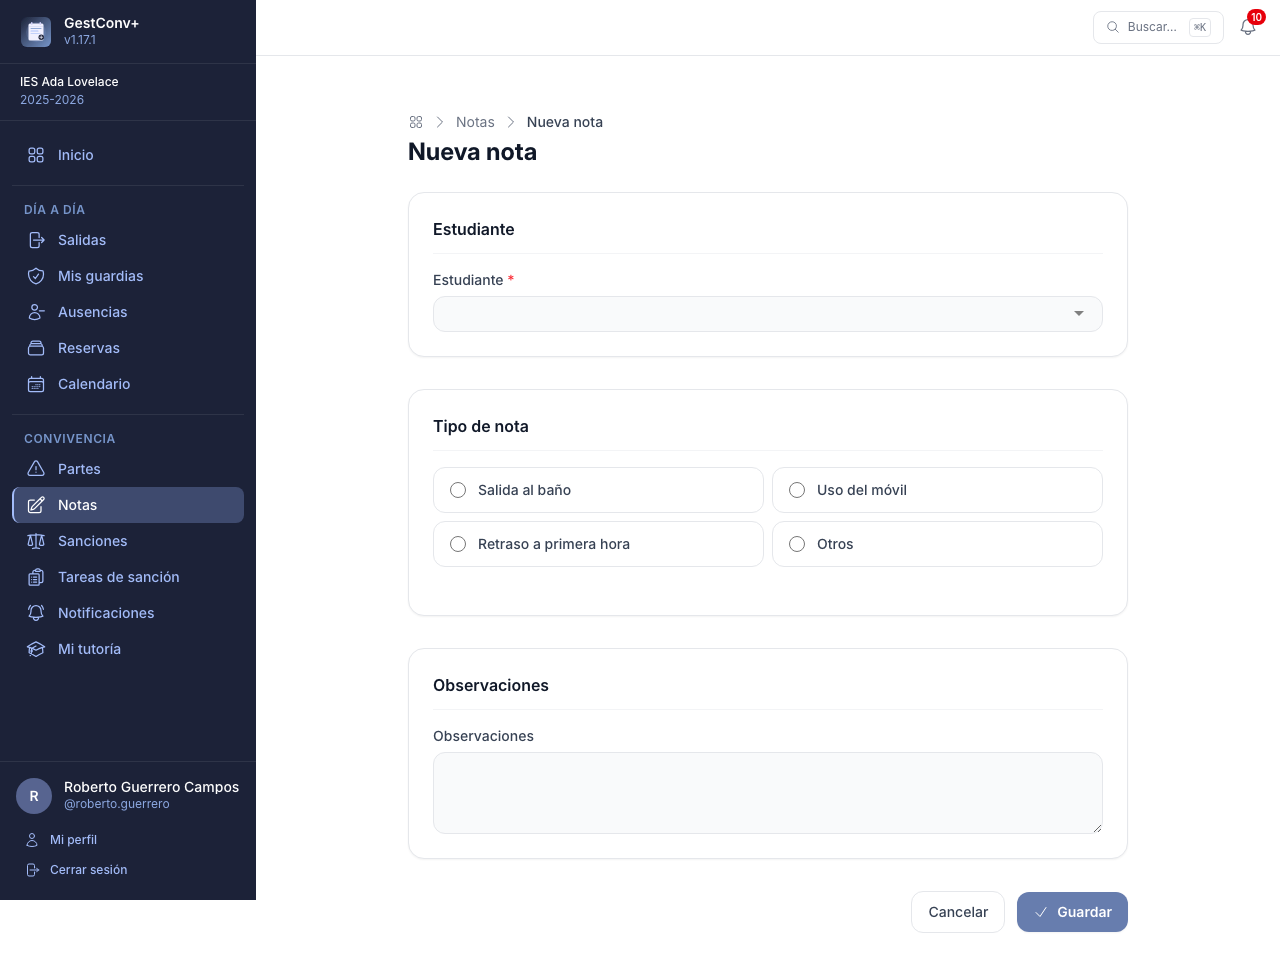
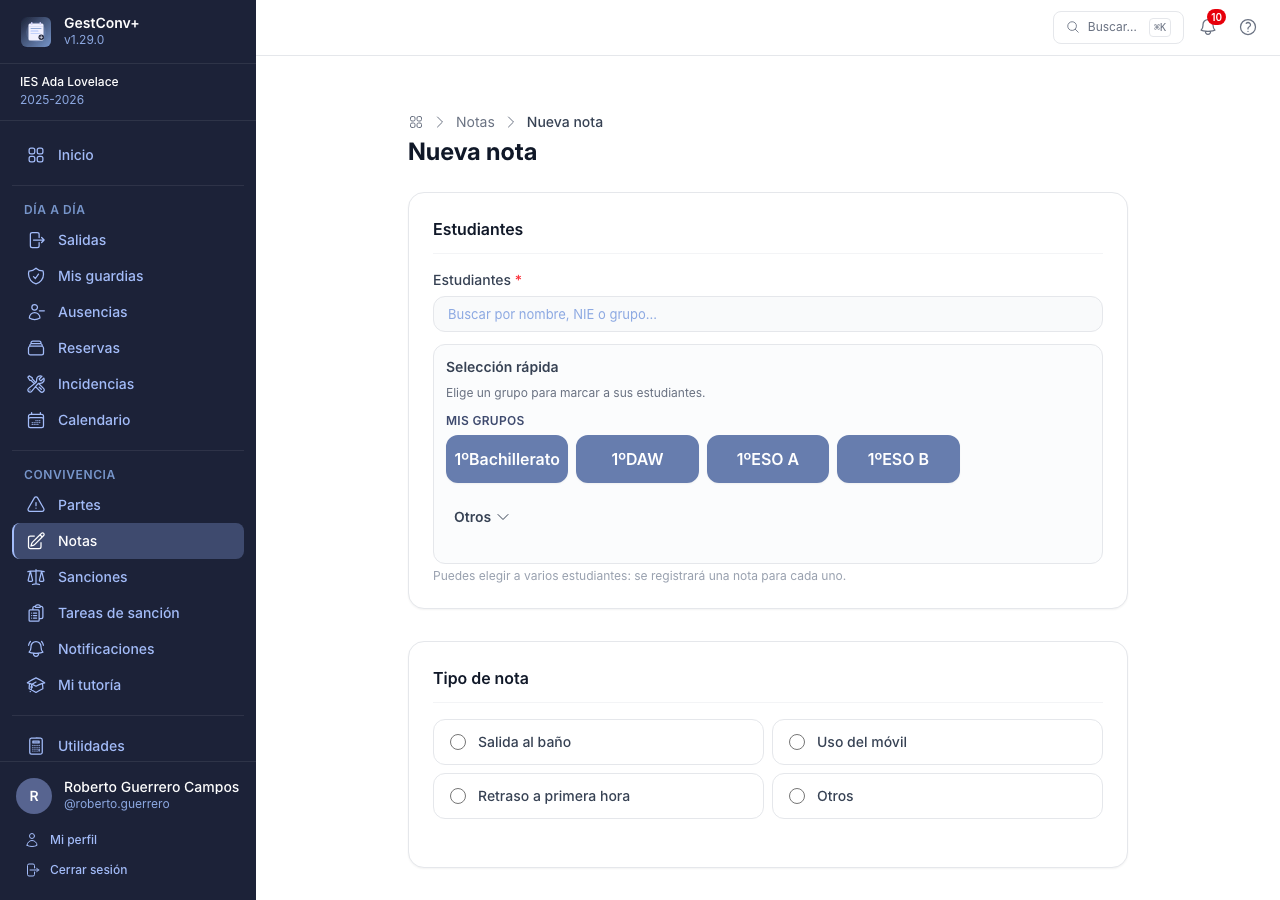
docs: capturas de las novedades y ajustes de interfaz tras verificarlas en navegador

diff --git a/assets/controllers/draft_controller.js b/assets/controllers/draft_controller.js
@@ -20,6 +20,7 @@ export default class extends Controller {
         ttlHours: { type: Number, default: 24 },
         studentsId: String,
         locationId: String,
+        justNow: String,
         // true si la página se muestra tras un envío con errores: el formulario ya trae lo enviado.
         posted: Boolean,
     };
@@ -183,7 +184,8 @@ export default class extends Controller {
 
     #ago(savedAt) {
         const minutes = Math.max(0, Math.round((Date.now() - savedAt) / 60000));
-        const rtf = new Intl.RelativeTimeFormat('es', { numeric: 'auto' });
+        if (minutes < 1) return this.justNowValue;
+        const rtf = new Intl.RelativeTimeFormat('es', { numeric: 'always' });
         if (minutes < 60) return rtf.format(-minutes, 'minute');
         return rtf.format(-Math.round(minutes / 60), 'hour');
     }

diff --git a/docs/manual/04-convivencia-profesorado.md b/docs/manual/04-convivencia-profesorado.md
@@ -29,7 +29,7 @@ especiales amplían esa visibilidad (ver [Permisos de un vistazo](15-permisos-de
    estudiantes (incluso de grupos distintos), selecciónalos todos: se creará un parte
    independiente para cada uno con los mismos datos.
 
-   ![Selector de alumnado con un estudiante seleccionado](img/partes/nuevo-parte-selector-alumnado.png)
+   ![Selección rápida: botones con los grupos de la persona que registra el parte, bajo el buscador](img/partes/nuevo-parte-seleccion-rapida.png)
 
    **Selección rápida.** Debajo del buscador aparecen botones con tus grupos (los que impartes o
    tutorizas), pensados para elegir con pocos toques incluso en la pantalla de un móvil. Pulsa un
@@ -43,6 +43,8 @@ especiales amplían esa visibilidad (ver [Permisos de un vistazo](15-permisos-de
    parte y de [nota](#registrar-una-nota-nueva)) permite
    desactivarla para toda la plataforma, para un centro o para ti (ver
    [Ajustes disponibles](13-administrar-la-plataforma.md#ajustes-disponibles)).
+
+   ![Dos estudiantes elegidos, con la tarjeta de antecedentes de cada una y la lista del grupo para marcar más](img/partes/nuevo-parte-selector-alumnado.png)
 
    **Antecedentes.** Al elegir a un estudiante, justo debajo aparece una tarjeta con un resumen de su
    situación: los **partes del último mes** (y cuántos incluyen conductas graves), si tiene una
@@ -75,6 +77,8 @@ especiales amplían esa visibilidad (ver [Permisos de un vistazo](15-permisos-de
 
 Los campos obligatorios están marcados con un asterisco; si falta alguno al guardar, cada error
 se muestra junto al campo afectado.
+
+![Aviso de borrador recuperable al abrir de nuevo el formulario de nuevo parte](img/partes/nuevo-parte-borrador.png)
 
 **Borrador automático.** Mientras rellenas el formulario, lo escrito se va guardando **en tu propio
 dispositivo** (no en el servidor), también al cambiar de aplicación o bloquear el móvil. Si se cierra la
@@ -160,6 +164,8 @@ una caducidad opcional (ver [Tipos de notas diarias](06-convivencia-administraci
    elegir a **varios estudiantes** (hasta 50): se registra **una nota independiente para cada uno**,
    con el mismo tipo y las mismas observaciones, y cada una cuenta por separado para su umbral. Es lo
    más cómodo para anotar, por ejemplo, los cinco retrasos de primera hora de una vez.
+
+   ![Formulario de nota con tres estudiantes elegidos con la selección rápida](img/notas/nueva-nota-varios.png)
 3. **Tipo de nota** — elige uno de los tipos activos del centro. Los tipos que, de añadir esta
    nota, alcanzarían el umbral de ocurrencias que dan lugar a parte se muestran resaltados en
    rojo (con varios estudiantes, si lo alcanzaría **cualquiera** de ellos). Al elegir un tipo
@@ -174,6 +180,8 @@ una caducidad opcional (ver [Tipos de notas diarias](06-convivencia-administraci
    umbral configurado, cuántas ocurrencias lleva el estudiante sobre el total; con varios
    estudiantes, una tarjeta por cada uno (el contador se resalta en rojo si ya ha alcanzado el
    umbral). La edición de una nota existente sigue siendo de un solo estudiante.
+
+   ![Pantalla de notas registradas, con una tarjeta por estudiante](img/notas/notas-creadas-varios.png)
 
 > La fecha y hora de la nota se registran automáticamente en el momento de guardarla, y no se
 > pueden elegir manualmente.
@@ -394,6 +402,10 @@ El botón **Informe en PDF** de la cabecera de la ficha genera un documento con 
 convivencia del estudiante en el curso que estás viendo, útil para reuniones con la familia, sesiones de
 evaluación o la comisión de convivencia. Si rellenas **Desde** y/o **Hasta** solo incluye ese periodo; con
 las fechas vacías, todo el curso. Contiene, de más antiguo a más reciente:
+
+![Botón Informe en PDF de la ficha, con el desplegable para elegir las fechas](img/alumnado/alumnado-informe-pdf.png)
+
+![Primera página del informe de convivencia de un estudiante](img/alumnado/alumnado-informe-pdf-pagina.png)
 
 - los datos del estudiante, su grupo, el periodo y quién genera el informe y cuándo;
 - los **datos de contacto de la familia**, solo si tienes permiso para verlos en la ficha;

diff --git a/docs/manual/03-usar-la-aplicacion.md b/docs/manual/03-usar-la-aplicacion.md
@@ -116,6 +116,8 @@ agrupan por tipo y se filtran mientras se escribe, sin distinguir mayúsculas ni
   alumnado** (a quienes se imparte clase o se tutoriza) y **Otro alumnado**; sobre estos últimos
   la ficha no muestra datos de contacto ni el historial de convivencia, solo las notas diarias.
 - **Docentes** — solo para administradores.
+![Paleta de búsqueda con «#1»: abre directamente el parte número 1](img/buscar/buscar-por-numero.png)
+
 - **Partes** — escribe el número del parte con la almohadilla, por ejemplo `#123`, para abrirlo
   directamente. Es el número que aparece en la primera columna del listado, dentro del curso que
   estás viendo, y solo se ofrece si tienes permiso para ver ese parte. La almohadilla es
@@ -132,6 +134,8 @@ tienen, en su barra de filtros, el botón **Exportar a Excel**. Descarga una hoj
 filas del listado tal como lo tienes filtrado** (no solo la página que ves): si has buscado un nombre o has
 marcado «Pendientes de notificar», la hoja contiene justo eso.
 
+![Listado de partes con el botón Exportar a Excel en la barra de filtros](img/partes/partes-listado.png)
+
 - La hoja trae **solo lo que tu perfil ve en esa pantalla**, con las mismas columnas del listado: un docente
   sin permisos especiales exporta únicamente sus partes y los de los grupos que tutoriza, igual que los ve.
   No se incluyen datos de contacto de las familias.
@@ -140,6 +144,8 @@ marcado «Pendientes de notificar», la hoja contiene justo eso.
 - Cada exportación queda anotada en el [registro de actividad](13-administrar-la-plataforma.md#registro-de-actividad).
 
 ## Ayuda en cada pantalla {#ayuda-en-cada-pantalla}
+
+![Cabecera con el buscador, la campana y el icono de ayuda](img/inicio/ayuda-cabecera.png)
 
 En la cabecera, junto a la campana, el icono de **ayuda** (**?**) abre este manual en el apartado que
 explica la pantalla en la que estás (por ejemplo, en el formulario de un nuevo parte, el apartado
@@ -193,5 +199,9 @@ correspondiente. Cada dispositivo se activa por separado y puedes **Desactivar a
 iPhone o iPad, primero hay que añadir la aplicación a la pantalla de inicio (pasos de arriba) y activar los
 avisos desde esa aplicación instalada.
 
+![Tarjeta Avisos en este dispositivo, en Perfil › Ajustes](img/ajustes/avisos-push-perfil.png)
+
 Sin conexión a internet, la aplicación muestra una página de aviso con un botón **Reintentar**. Por seguridad no
 guarda en el dispositivo pantallas ni datos de estudiantes para usarlos sin conexión.
+
+![Página «Sin conexión» con el botón Reintentar](img/inicio/sin-conexion.png)

diff --git a/docs/manual/07-salidas.md b/docs/manual/07-salidas.md
@@ -51,6 +51,8 @@ no cuenta en los tiempos fuera de los informes y se muestra con la etiqueta **Ci
 lugar del cronómetro. En el [historial](#historial) puede filtrarse con **Cerradas
 automáticamente** (el filtro **Siguen fuera** no las incluye).
 
+![Historial de salidas filtrado por «Cerradas automáticamente»: la salida figura con la etiqueta Cierre automático](img/salidas/salidas-cierre-automatico.png)
+
 ## Pase prioritario {#pase-prioritario}
 
 Algunos estudiantes necesitan un trato especial al salir del aula (por ejemplo, por motivos de
